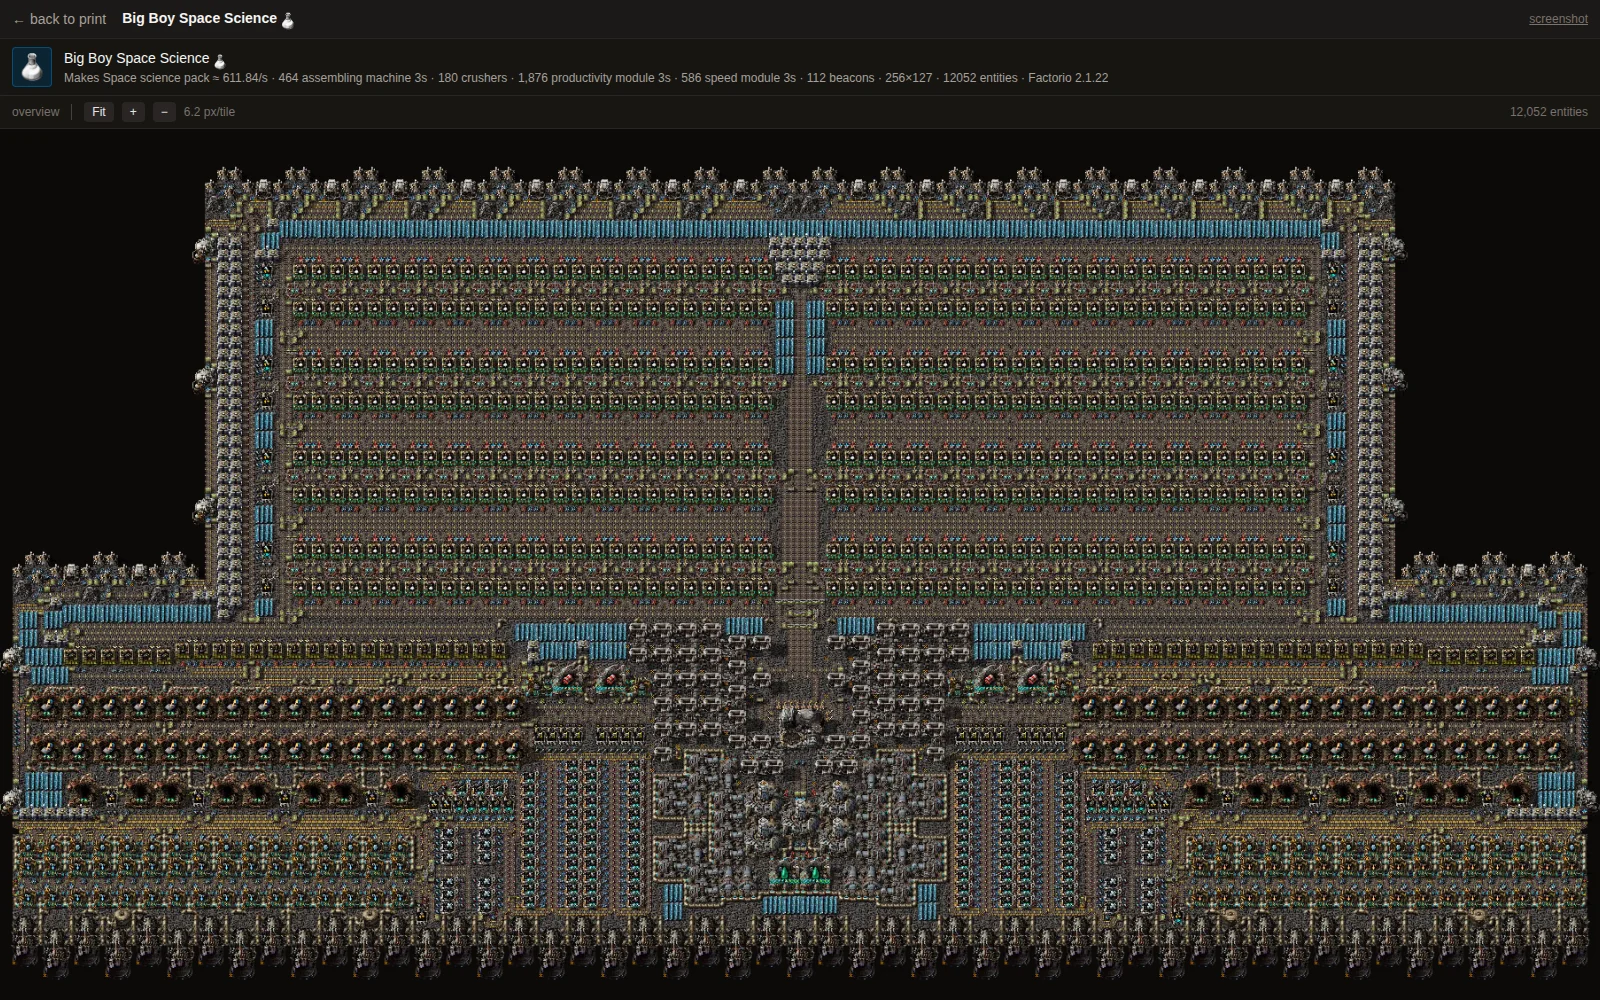
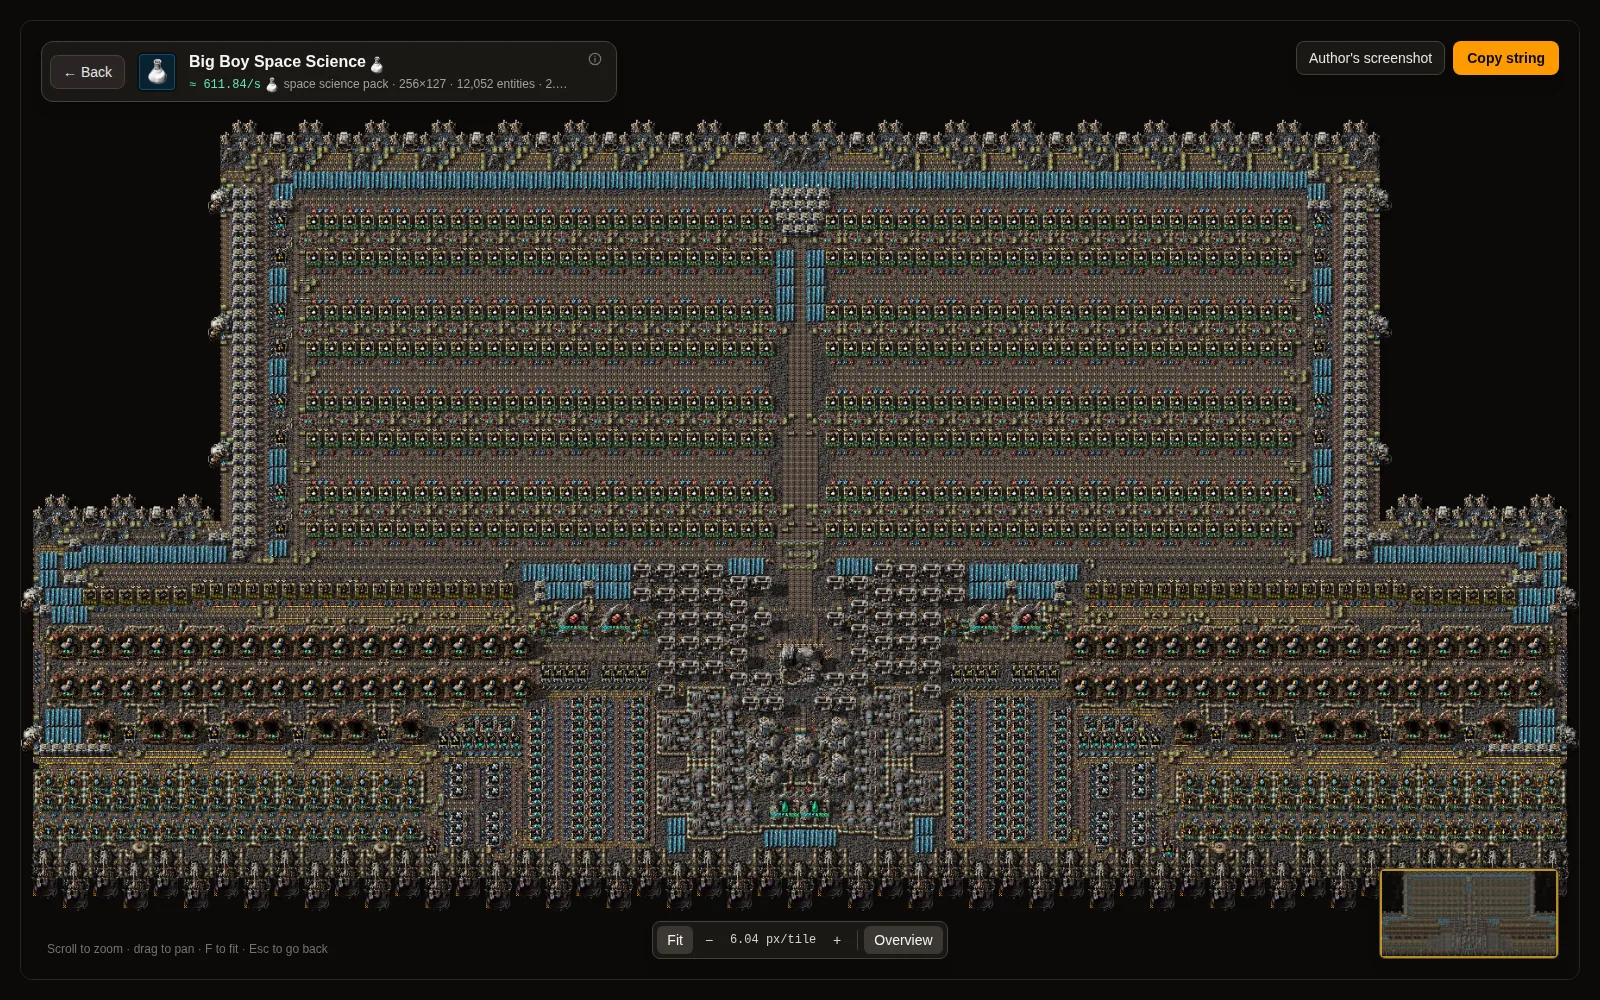
README: screenshots of the current site, quality search, page thumbnails, rate units

diff --git a/README.md b/README.md
@@ -17,10 +17,12 @@ machine shows its recipe, modules, size and direction.</sub>
 ### Search by what's inside
 
 Filter by what a print makes, the buildings, recipes and modules it uses, game version, Space Age,
-planets, mods, circuits and trains, all read from the blueprint itself. Filters stack, so each
-click narrows the results, and community nicknames ("red science", "gc") work as search text.
+planets, mods, circuits and trains, all read from the blueprint itself. Makes, buildings and
+modules can carry a quality ("legendary beacons", "processing units crafted at rare or above").
+Filters stack, so each click narrows the results, and community nicknames ("red science", "gc")
+work as search text.
 
-![Search with four stacked filters: makes firearm magazines, uses asteroid collectors, needs Space Age, has a render: 26 space platforms](docs/screenshots/filters.webp)
+![Search with four stacked filters: makes firearm magazines, uses asteroid collectors, needs Space Age, has a render: 634 prints](docs/screenshots/filters.webp)
 
 ### High-res game renders
 
@@ -32,19 +34,23 @@ recipe, modules and connections.
 
 ### Books you can navigate
 
-Tabs for every book and sub-book, with the selected page's render first. Copy the whole book, or
-just the page you're looking at.
+The selected page's render first, then every book and sub-book, with a thumbnail of each page's
+render so you can find the one you want by looking. Copy the whole book, or just the page you're
+looking at.
 
-![A blueprint book: the selected page's game render, then tabs for its books and sub-books over the pages](docs/screenshots/book.webp)
+![The AutoRail book's Render & pages tab: the selected page's game render, its sub-books, and thumbnails of their pages](docs/screenshots/book.webp)
 
 ### Calculated rates
 
 No rate in the description? It's worked out from the page's machines and recipes, with their
-modules and beacons, so you see what a build makes per second at nameplate speed.
+modules and beacons, so you see what a build makes with every machine crafting at full speed, per
+second or per minute.
 
-![Big Boy Space Science's print page: about 611.84 space science packs per second, from 464 assembling machines with 1,876 productivity modules, 586 speed modules and 112 beacons](docs/screenshots/rates.webp)
+![Big Boy Space Science's overview: about 611.84 space science packs per second, what it takes in, and what it's built with: 464 assembling machines with 1,876 productivity modules, 586 speed modules and 112 beacons](docs/screenshots/rates.webp)
 
-Every print links back to its page on factorioprints.com and credits its author.
+Every print links back to its page on factorioprints.com and credits its author. Authors'
+screenshots are served from the site's own copies of their Imgur uploads, so they load where Imgur
+is blocked.
 
 ## How it works
 
